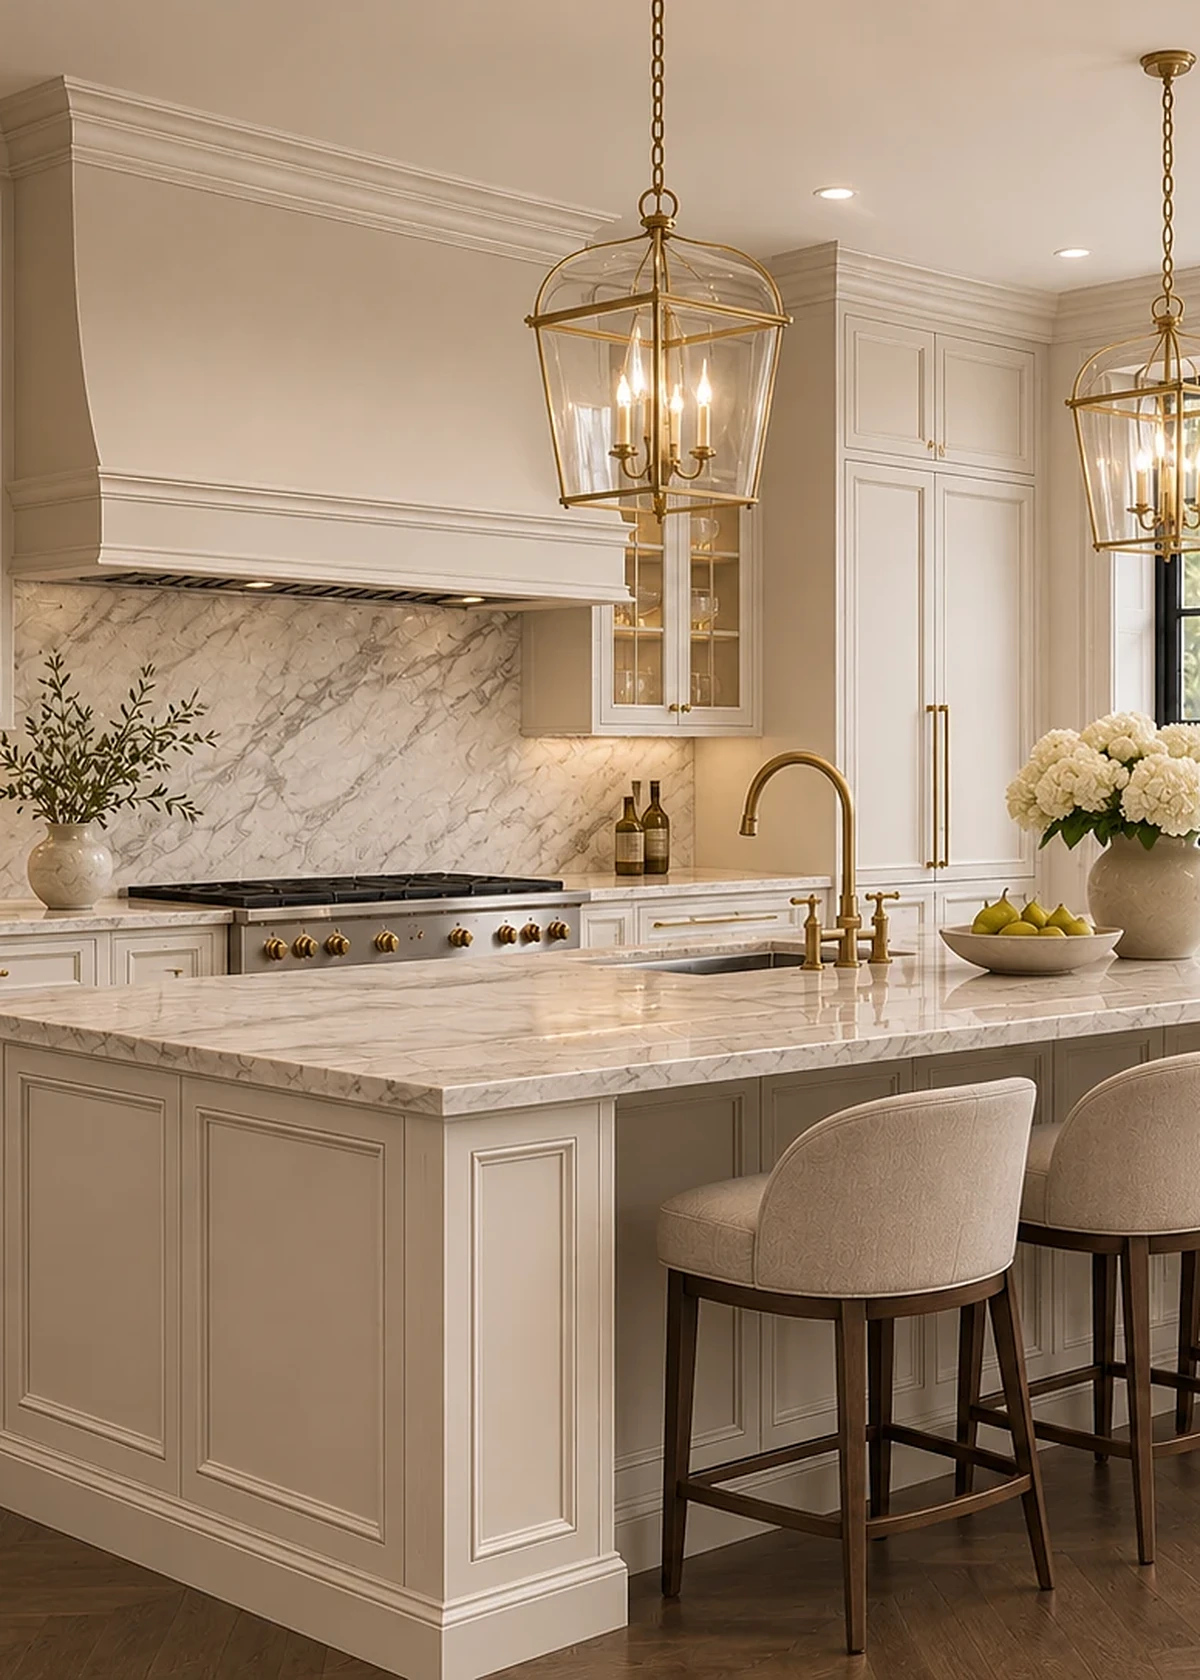
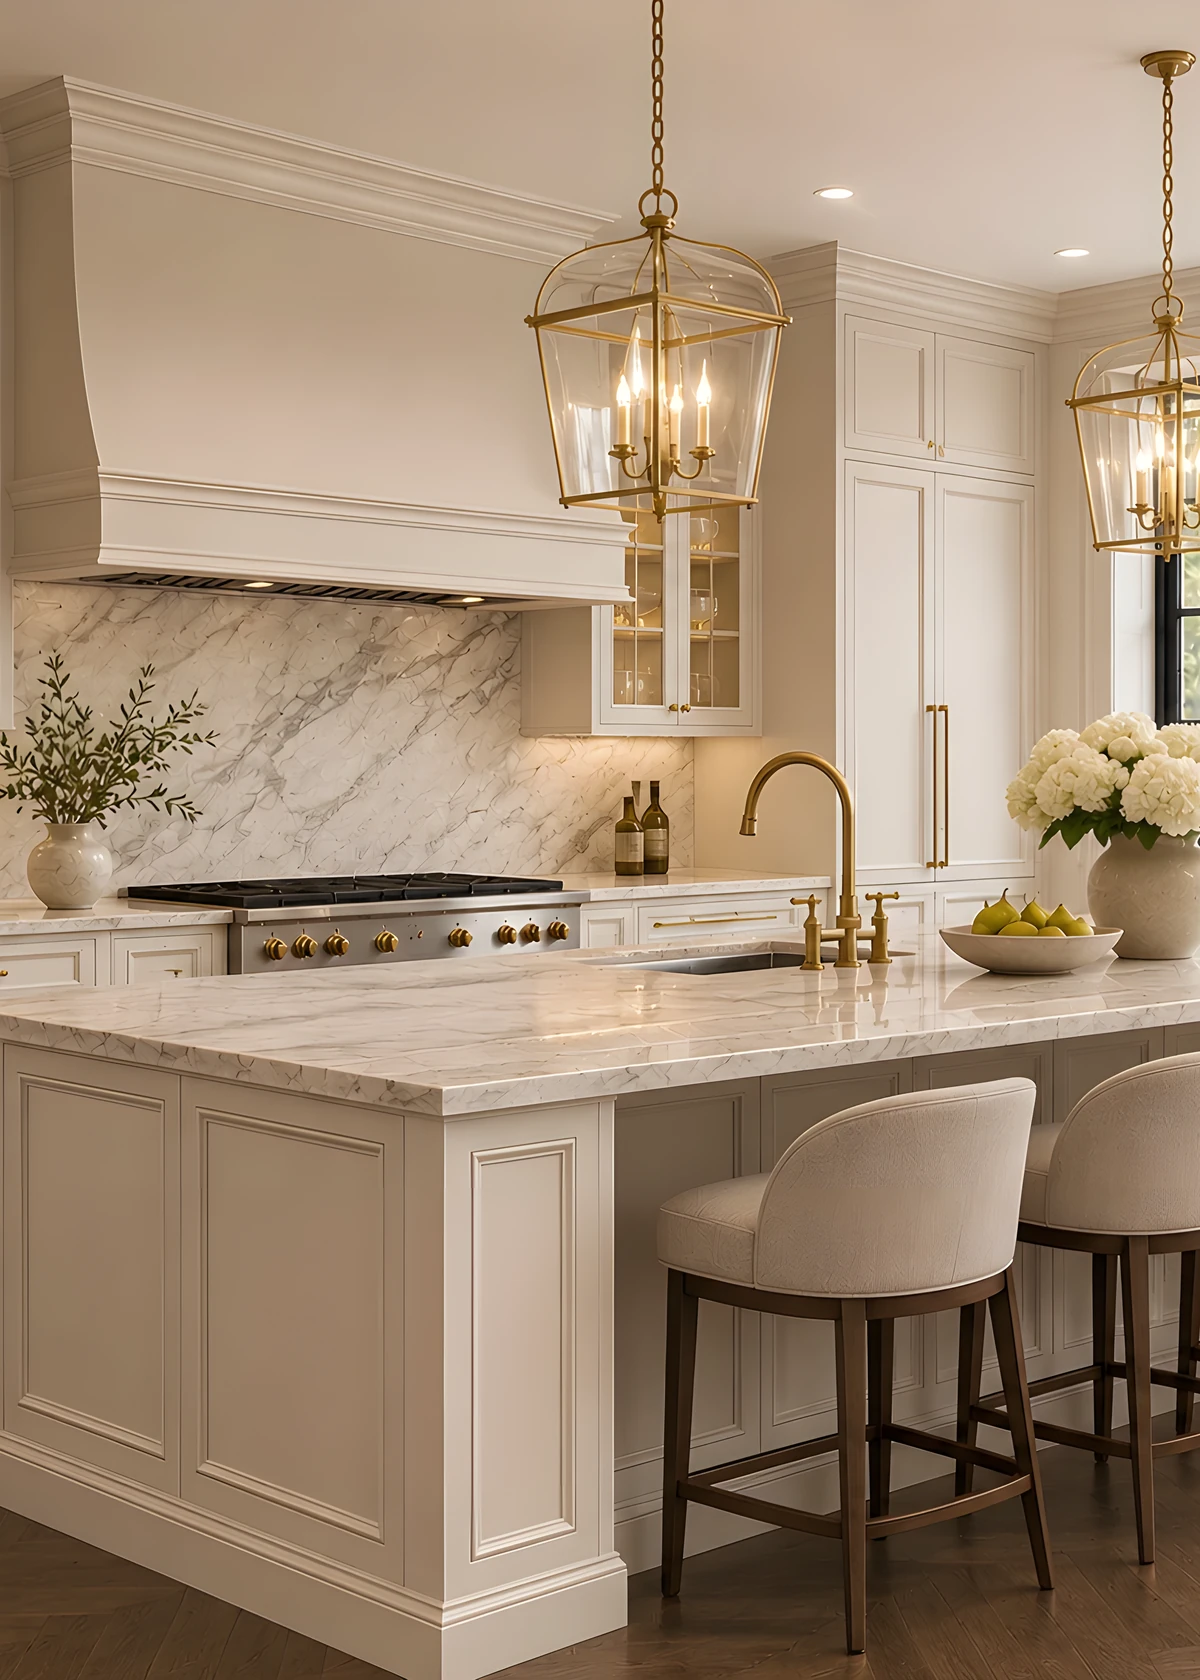
Add three images to the portfolio grid
Claude-Session: https://claude.ai/code/session_01PJnvV7EPmWku7QpvRs9UqU

diff --git a/index.html b/index.html
@@ -166,10 +166,19 @@
           <img src="images/portfolio-1.webp" alt="Kitchen with a rounded oak island, veined marble and a sculpted plaster hood" width="1200" height="1680" loading="lazy">
         </figure>
         <figure class="project graded">
-          <img src="images/portfolio-2.webp" alt="Fireplace wrapped in bold veined stone with lit floating shelves beside it" width="1200" height="1680" loading="lazy">
+          <img src="images/portfolio-6.webp" alt="Entry hall with a curved staircase, arched windows and an olive tree" width="1200" height="1680" loading="lazy">
         </figure>
         <figure class="project graded">
+          <img src="images/portfolio-8.webp" alt="Bathroom with a freestanding tub, arched window, oak doors and a glass shower" width="1200" height="1680" loading="lazy">
+        </figure>
+        <figure class="project graded" data-more hidden>
+          <img src="images/portfolio-2.webp" alt="Fireplace wrapped in bold veined stone with lit floating shelves beside it" width="1200" height="1680" loading="lazy">
+        </figure>
+        <figure class="project graded" data-more hidden>
           <img src="images/portfolio-3.webp" alt="Kitchen with bronze pendant lights, a farmhouse sink under a garden window and an oak island" width="1200" height="1680" loading="lazy">
+        </figure>
+        <figure class="project graded" data-more hidden>
+          <img src="images/portfolio-7.webp" alt="Hallway with a lit oak staircase, plaster arches and a checkered stone floor" width="1200" height="1680" loading="lazy">
         </figure>
         <figure class="project graded" data-more hidden>
           <img src="images/portfolio-4.webp" alt="Classic ivory kitchen with brass lanterns and a marble island" width="1200" height="1680" loading="lazy">
